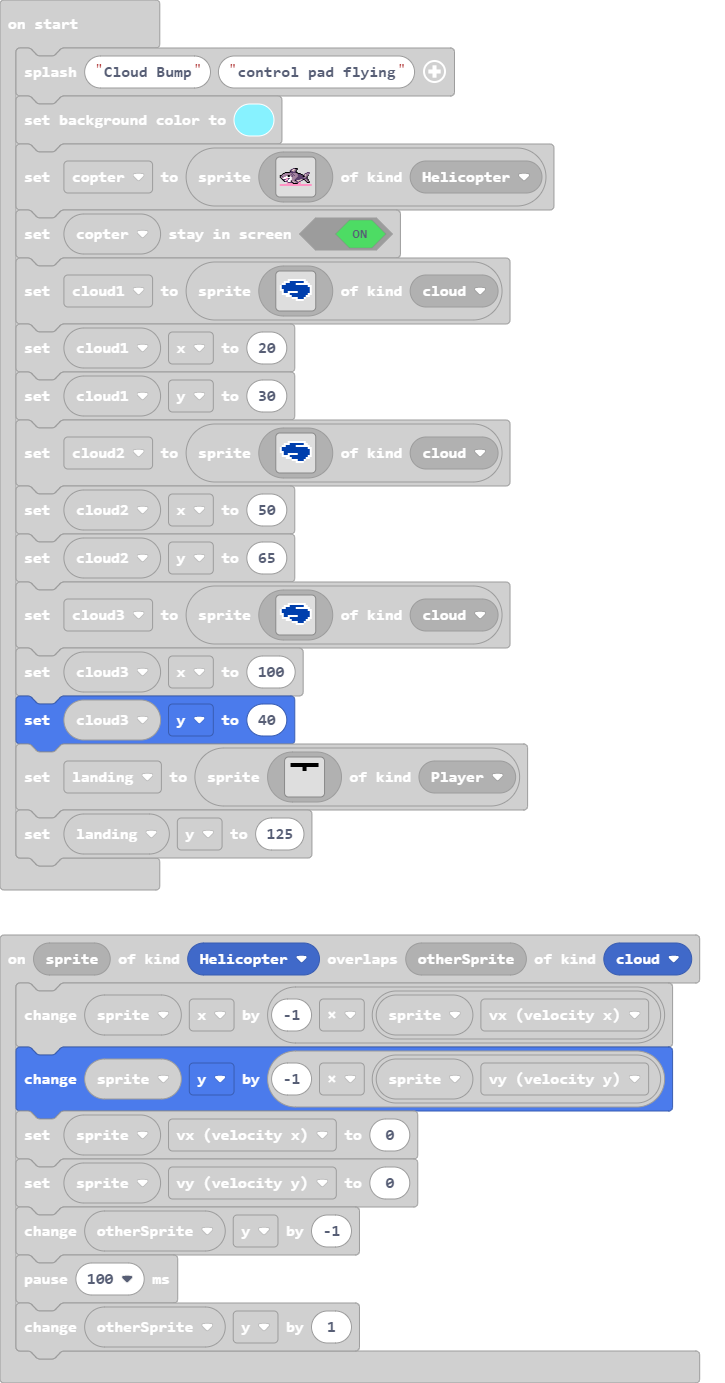
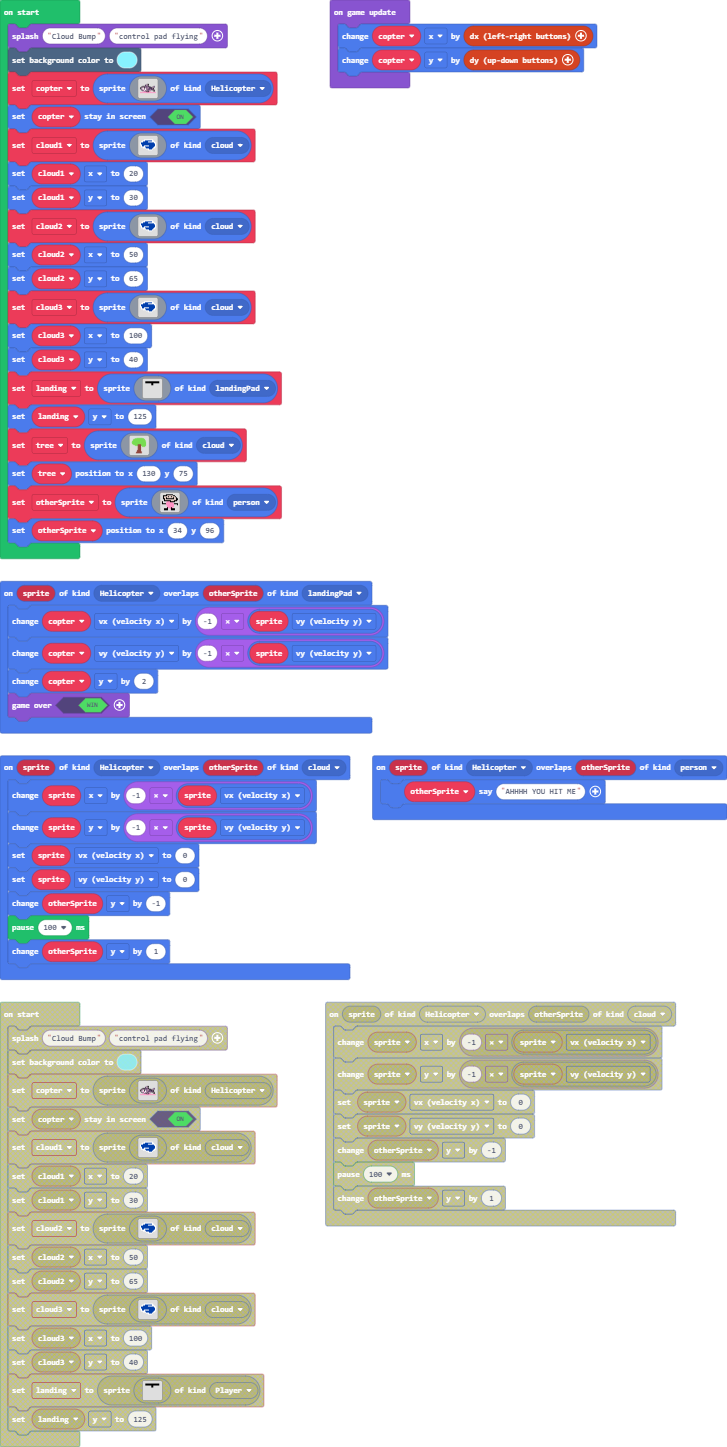
finished up the game

diff --git a/main.ts b/main.ts
@@ -1,6 +1,8 @@
 namespace SpriteKind {
     export const Helicopter = SpriteKind.create()
     export const cloud = SpriteKind.create()
+    export const landingPad = SpriteKind.create()
+    export const person = SpriteKind.create()
 }
 controller.up.onEvent(ControllerButtonEvent.Pressed, function () {
     copter.vy += -1
@@ -10,6 +12,15 @@ controller.left.onEvent(ControllerButtonEvent.Pressed, function () {
 })
 controller.right.onEvent(ControllerButtonEvent.Pressed, function () {
     copter.vx += 1
+})
+sprites.onOverlap(SpriteKind.Helicopter, SpriteKind.person, function (sprite, otherSprite) {
+    otherSprite.say("AHHHH YOU HIT ME")
+})
+sprites.onOverlap(SpriteKind.Helicopter, SpriteKind.landingPad, function (sprite, otherSprite) {
+    copter.vx += -1 * sprite.vy
+    copter.vy += -1 * sprite.vy
+    copter.y += 2
+    game.over(true)
 })
 controller.down.onEvent(ControllerButtonEvent.Pressed, function () {
     copter.vy += 1
@@ -124,5 +135,63 @@ let landing = sprites.create(img`
     . . . . . . . . . . . . . . . . 
     . . . . . . . . . . . . . . . . 
     . . . . . . . . . . . . . . . . 
-    `, SpriteKind.Player)
+    `, SpriteKind.landingPad)
 landing.y = 125
+let tree = sprites.create(img`
+    ................................
+    ...........777777777777.........
+    .......7777777777777777777......
+    .....7777777777777777777777.....
+    ....777777777777777777777777....
+    ...7777777777777777777777777....
+    ...77777777777777777777777777...
+    ..777777777777777777777777777...
+    ..777777777777777777777777777...
+    .77777777777777777777777777777..
+    .77777777777777777777777777777..
+    .77777777777777777777777777777..
+    ..7777777777777777777777777777..
+    ..7777777777777777777777777777..
+    ....777777777eeeeeee7777777777..
+    ......7777777eeeeeee7777777777..
+    ........77777eeeeeee7777777777..
+    .............eeeeeee.77777777...
+    .............eeeeeee..777777....
+    .............eeeeeee............
+    .............eeeeeee............
+    .............eeeeeee............
+    .............eeeeeee............
+    .............eeeeeee............
+    .............eeeeeee............
+    ............eeeeeeee............
+    ............eeeeeeee............
+    ...........eeeeeeeee............
+    ...........eeeeeeeeee...........
+    ..........eeeeeeeeeee...........
+    ..........eeeeeeeeeee...........
+    .........eeeeeeeeeeeee..........
+    `, SpriteKind.cloud)
+tree.setPosition(130, 75)
+let otherSprite = sprites.create(img`
+    . . . . f f f f f f f . . . . . 
+    . f f f f d d d d d d f f . . . 
+    . f d d d d f d d f d d d f . . 
+    . f d d f d d d d d d f d d f . 
+    . f f d f f f f f f f f d d f f 
+    . . f d d d d d d d d d d d f f 
+    . . f f f f f f f d d d f f f . 
+    f . . . . 3 3 3 f f f f f . . . 
+    f . . . 3 3 3 3 3 3 3 . . . . . 
+    f f f f 3 3 3 3 3 3 3 3 f f f f 
+    . . . . 3 3 3 3 3 3 3 3 . . . f 
+    . . . . . 3 3 3 3 3 3 3 . . . . 
+    . . . . . 3 3 3 3 3 3 3 . . . . 
+    . . . . . f 3 3 3 f 3 . . . . . 
+    . . f f f f . . 3 f f f f . . . 
+    . . f f f f . . . f f f f . . . 
+    `, SpriteKind.person)
+otherSprite.setPosition(34, 96)
+game.onUpdate(function () {
+    copter.x += controller.dx()
+    copter.y += controller.dy()
+})
